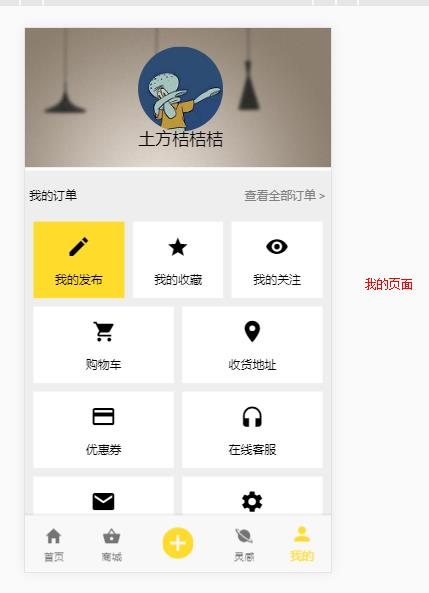
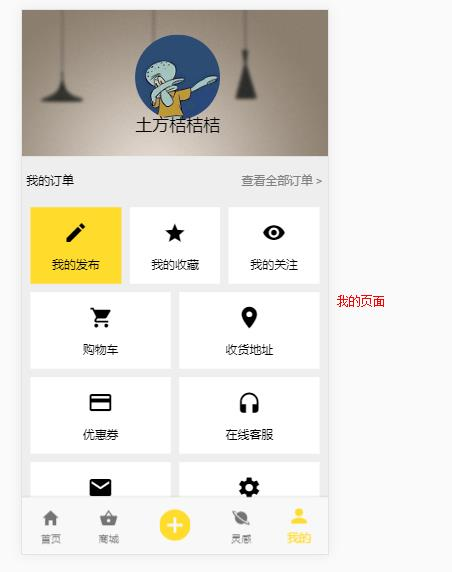
桔家

diff --git a/桔家/src/pages/menu/menu.html b/桔家/src/pages/menu/menu.html
@@ -7,12 +7,12 @@
 
 <ion-content>
   <div class="header">
-    <img src="../../assets/imgs/my_02.png">
+    <img style="display:block;" src="../../assets/imgs/my_02.png">
     <img src="../../assets/imgs/toux.png" class="touxiang">
     <p>土方桔桔桔</p>
   </div>
   <ion-grid>
-    <div><span>我的订单<a>查看全部订单 ></a></span></div>
+    <div (click)="goSub1()"><span>我的订单<a>查看全部订单 ></a></span></div>
     <ion-row>
       <ion-col col-4>
         <div style="background-color:#ffdb2c;">
@@ -70,21 +70,5 @@
       </ion-col>
     </ion-row>
   </ion-grid>
-    <!-- <div class="box">
-        <ion-item>
-          <ion-icon name="ios-phone-portrait" item-start></ion-icon>
-          <ion-input type="number" placeholder="手机号"></ion-input>
-        </ion-item>
-        <ion-item no-padding>
-          <ion-icon name="ios-phone-portrait" item-start></ion-icon>
-          <ion-input type="text" placeholder="验证码"></ion-input>
-          <button style="width:100px;height:100%;float:right;margin:0;" item-end>倒计时30s</button>
-        </ion-item>
-        <ion-item>
-          <ion-icon name="ios-phone-portrait" item-start></ion-icon>
-          <ion-input type="password" placeholder="密码"></ion-input>
-        </ion-item>
-        <button ion-button block color="mycolor">注册</button>
-        <p>已有账号？立即登录</p>
-      </div> -->
+  
 </ion-content>

diff --git a/桔家/src/app/app.module.ts b/桔家/src/app/app.module.ts
@@ -16,6 +16,9 @@ import { SplashScreen } from '@ionic-native/splash-screen';
 import { ComponentsModule } from '../components/components.module';
 import { HttpClientModule } from '@angular/common/http';
 import { SettingPage } from '../pages/setting/setting';
+import { ZhucePage } from '../pages/zhuce/zhuce';
+import { DengluPage } from '../pages/denglu/denglu';
+import { DingdanPage } from '../pages/dingdan/dingdan';
 
 @NgModule({
   declarations: [
@@ -27,15 +30,19 @@ import { SettingPage } from '../pages/setting/setting';
     MyhomePage,
     MenuPage,
     JiaPage,
-    SettingPage
+    SettingPage,
+    ZhucePage,
+    DengluPage,
+    DingdanPage
   ],
   imports: [
     BrowserModule,
     ComponentsModule,
     HttpClientModule,
     IonicModule.forRoot(
-      MyApp,{backButtonText:''}
-    )],
+      MyApp,{backButtonText:'',
+      // tabsHideOnSubPages:true
+    })],
   bootstrap: [IonicApp],
   entryComponents: [
     MyApp,
@@ -46,7 +53,10 @@ import { SettingPage } from '../pages/setting/setting';
     MyhomePage,
     MenuPage,
     JiaPage,
-    SettingPage
+    SettingPage,
+    ZhucePage,
+    DengluPage,
+    DingdanPage
   ],
   providers: [
     StatusBar,

diff --git a/桔家/src/pages/menu/menu.scss b/桔家/src/pages/menu/menu.scss
@@ -52,6 +52,7 @@ page-menu {
                 ion-icon{
                     font-size: 30px;
                     margin-top: 15px;
+                    color: grey;
                 }
                 
             }
@@ -59,30 +60,6 @@ page-menu {
             
         }
 
-        // background: url(../assets/imgs/bg.png);
-        // background-size: cover;
-        // .box{
-        //     ion-item{
-        //         background: transparent;
-        //         ion-icon{
-        //             color:#d1dad8;
-        //         }
-        //         input::-webkit-input-placeholder {
-        //             color: #f00;
-        //             font-size: 14px;
-        //         }
-        //         button{
-        //             color: red;
-        //         }
-        //     }
-        //     button{
-        //         margin-top: 50px;
-        //         color: #fff;
-        //     }
-        //     p{
-        //         color: #fff!important;
-        //         text-align: center;
-        //     }
-        // }
+       
     }
 }

diff --git a/桔家/src/pages/setting/setting.ts b/桔家/src/pages/setting/setting.ts
@@ -1,5 +1,7 @@
 import { Component } from '@angular/core';
 import { IonicPage, NavController, NavParams } from 'ionic-angular';
+import { ZhucePage } from '../zhuce/zhuce';
+import { DengluPage } from '../denglu/denglu';
 
 /**
  * Generated class for the SettingPage page.
@@ -16,6 +18,10 @@ import { IonicPage, NavController, NavParams } from 'ionic-angular';
 export class SettingPage {
 
   constructor(public navCtrl: NavController, public navParams: NavParams) {
+  }
+   
+  goSub(){
+    this.navCtrl.push(DengluPage);
   }
 
   ionViewDidLoad() {

diff --git a/桔家/src/pages/menu/menu.ts b/桔家/src/pages/menu/menu.ts
@@ -1,6 +1,7 @@
 import { Component } from '@angular/core';
 import { NavController, NavParams } from 'ionic-angular';
 import { SettingPage } from '../setting/setting';
+import { DingdanPage } from '../dingdan/dingdan';
 
 /**
  * Generated class for the MenuPage page.
@@ -20,6 +21,10 @@ export class MenuPage {
   }
   goSub(){
     this.navCtrl.push(SettingPage);
+  }
+
+  goSub1(){
+    this.navCtrl.push(DingdanPage);
   }
   ionViewDidLoad() {
     console.log('ionViewDidLoad MenuPage');

diff --git a/桔家/src/pages/setting/setting.html b/桔家/src/pages/setting/setting.html
@@ -36,5 +36,5 @@
       <span><ion-icon name="arrow-forward"></ion-icon></span>
     </div>
   </div>
-  <button>退出登录</button>
+  <button (click)="goSub()">退出登录</button>
 </ion-content>
